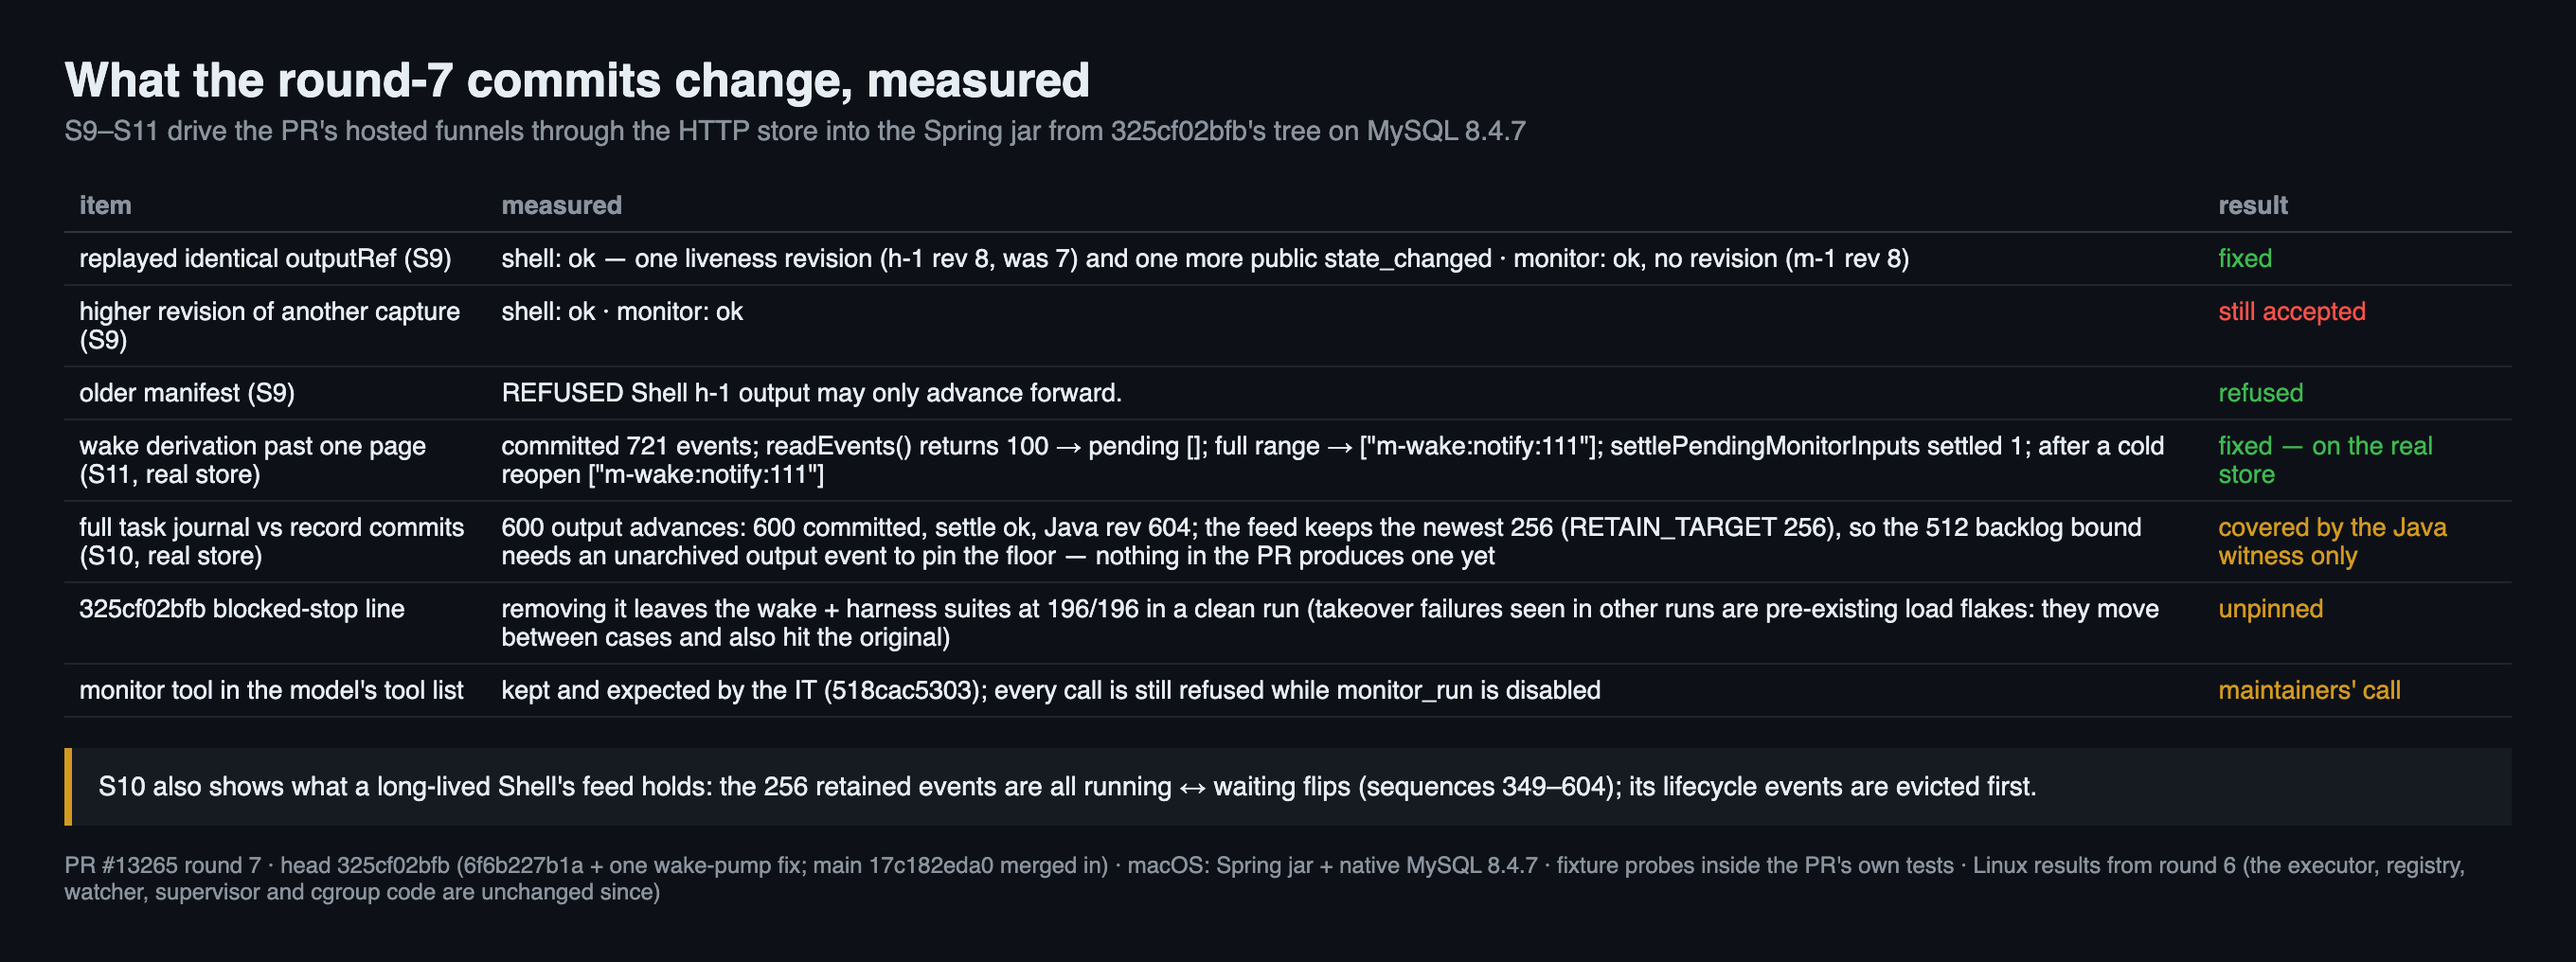
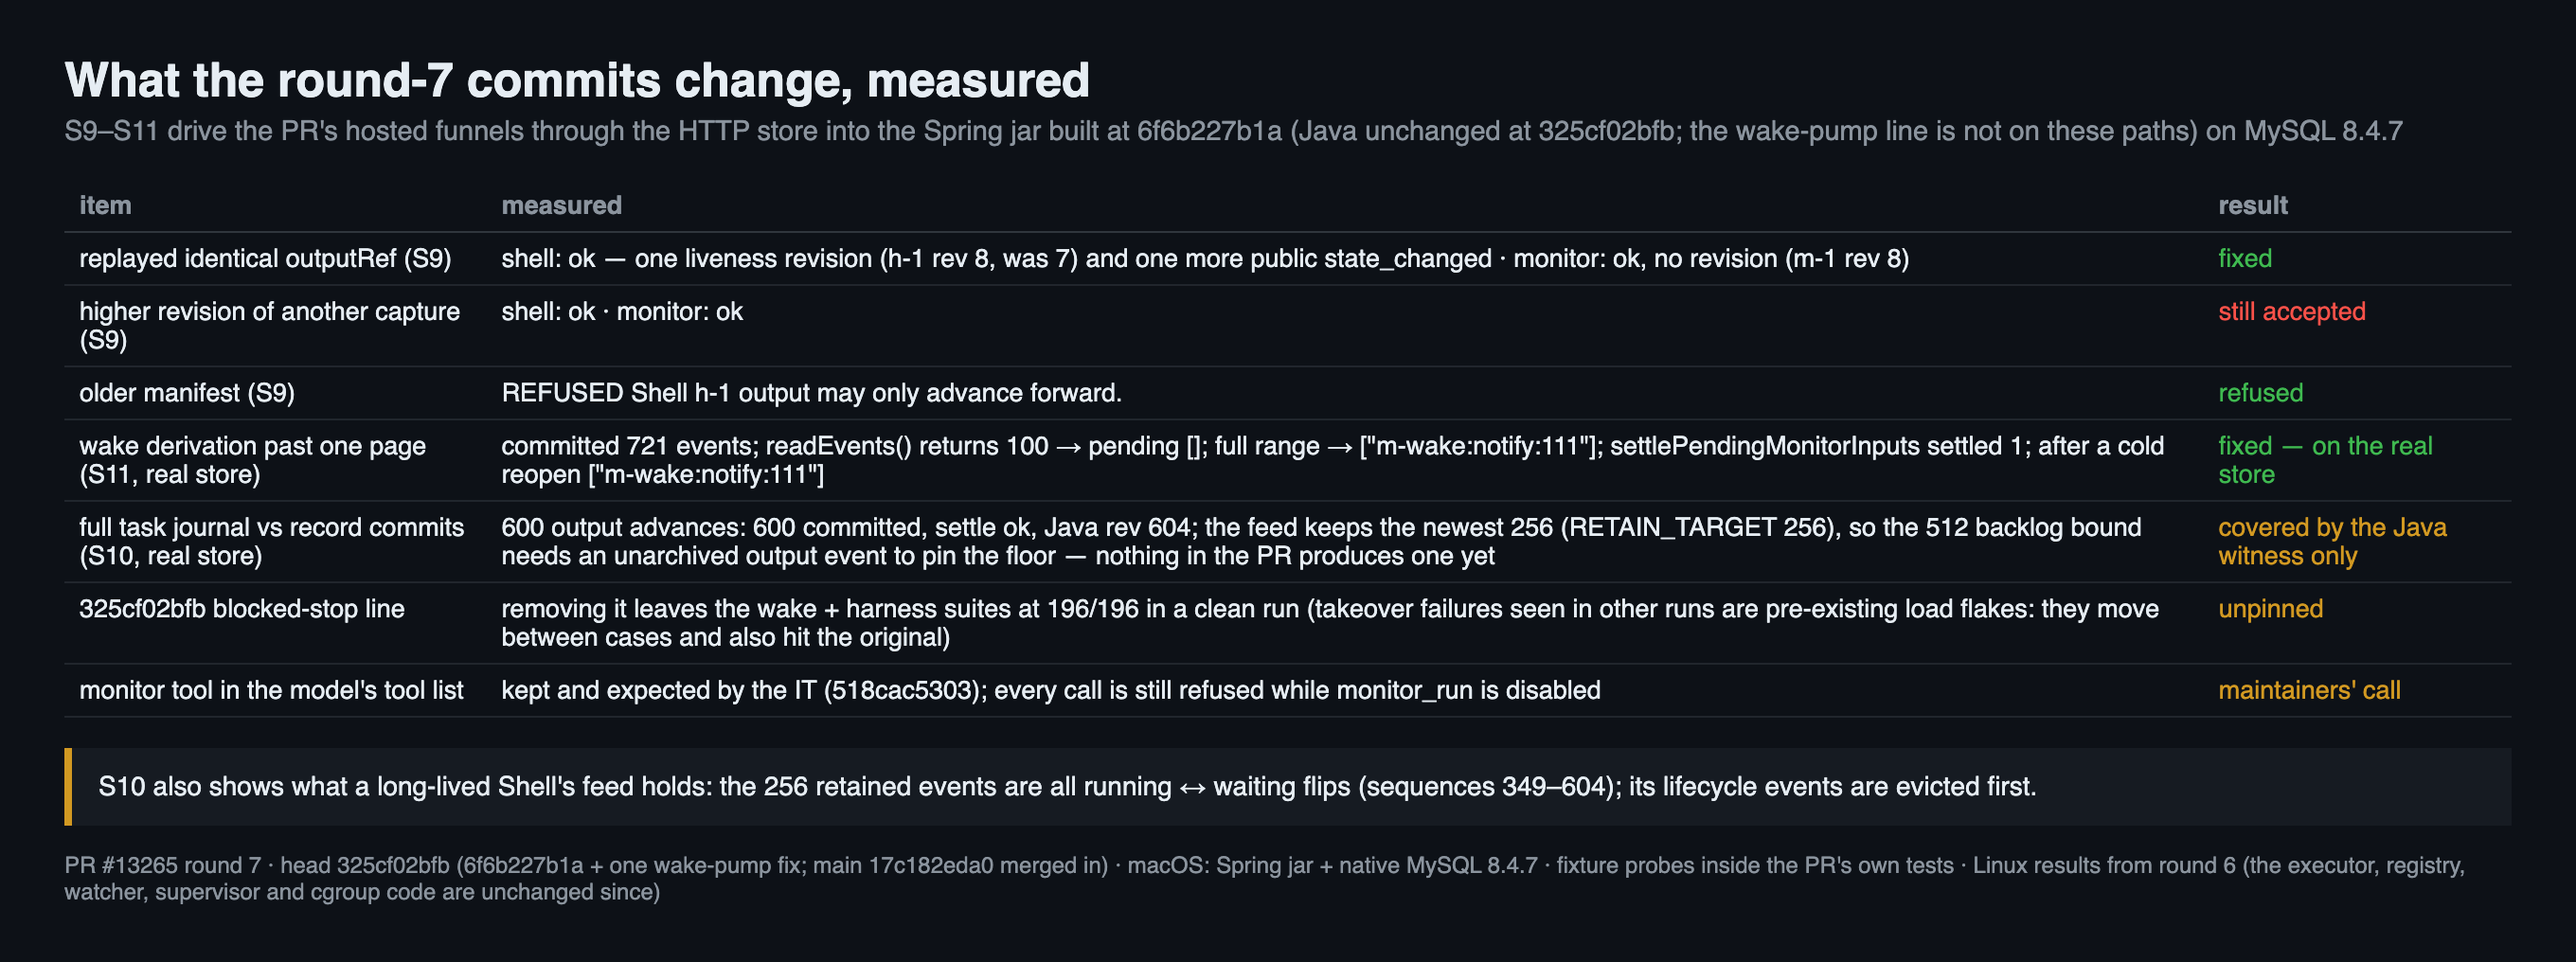
PR #13265 round 7 evidence update (card 2 subtitle, head 325cf02bfb)

Changed region(s): [[0.4062, 0.122, 0.9375, 0.1526]]

diff --git a/pr13265/r7/cards/r7-02-fixes.html b/pr13265/r7/cards/r7-02-fixes.html
@@ -11,6 +11,6 @@ pre{background:#161b22;border:1px solid #30363d;border-radius:6px;padding:10px 1
 .note.ok{border-color:#3fb950;color:#e6edf3} .note.bad{border-color:#f85149;color:#e6edf3}
 .grid{display:grid;grid-template-columns:1fr 1fr;gap:18px}
 .foot{color:#8b949e;font-size:12px;margin-top:14px}
-</style></head><body><div id="card"><h1>What the round-7 commits change, measured</h1><div class="sub">S9–S11 drive the PR's hosted funnels through the HTTP store into the Spring jar from 325cf02bfb's tree on MySQL 8.4.7</div>
+</style></head><body><div id="card"><h1>What the round-7 commits change, measured</h1><div class="sub">S9–S11 drive the PR's hosted funnels through the HTTP store into the Spring jar built at 6f6b227b1a (Java unchanged at 325cf02bfb; the wake-pump line is not on these paths) on MySQL 8.4.7</div>
 <table><tr><th>item</th><th>measured</th><th>result</th></tr><tr><td>replayed identical outputRef (S9)</td><td>shell: ok — one liveness revision (h-1 rev 8, was 7) and one more public state_changed · monitor: ok, no revision (m-1 rev 8)</td><td class="ok">fixed</td></tr><tr><td>higher revision of another capture (S9)</td><td>shell: ok · monitor: ok</td><td class="bad">still accepted</td></tr><tr><td>older manifest (S9)</td><td>REFUSED Shell h-1 output may only advance forward.</td><td class="ok">refused</td></tr><tr><td>wake derivation past one page (S11, real store)</td><td>committed 721 events; readEvents() returns 100 → pending []; full range → ["m-wake:notify:111"]; settlePendingMonitorInputs settled 1; after a cold reopen ["m-wake:notify:111"]</td><td class="ok">fixed — on the real store</td></tr><tr><td>full task journal vs record commits (S10, real store)</td><td>600 output advances: 600 committed, settle ok, Java rev 604; the feed keeps the newest 256 (RETAIN_TARGET 256), so the 512 backlog bound needs an unarchived output event to pin the floor — nothing in the PR produces one yet</td><td class="warn">covered by the Java witness only</td></tr><tr><td>325cf02bfb blocked-stop line</td><td>removing it leaves the wake + harness suites at 196/196 in a clean run (takeover failures seen in other runs are pre-existing load flakes: they move between cases and also hit the original)</td><td class="warn">unpinned</td></tr><tr><td>monitor tool in the model's tool list</td><td>kept and expected by the IT (518cac5303); every call is still refused while monitor_run is disabled</td><td class="warn">maintainers' call</td></tr></table>
 <div class="note">S10 also shows what a long-lived Shell's feed holds: the 256 retained events are all running ↔ waiting flips (sequences 349–604); its lifecycle events are evicted first.</div><div class="foot">PR #13265 round 7 · head 325cf02bfb (6f6b227b1a + one wake-pump fix; main 17c182eda0 merged in) · macOS: Spring jar + native MySQL 8.4.7 · fixture probes inside the PR's own tests · Linux results from round 6 (the executor, registry, watcher, supervisor and cgroup code are unchanged since)</div></div></body></html>
